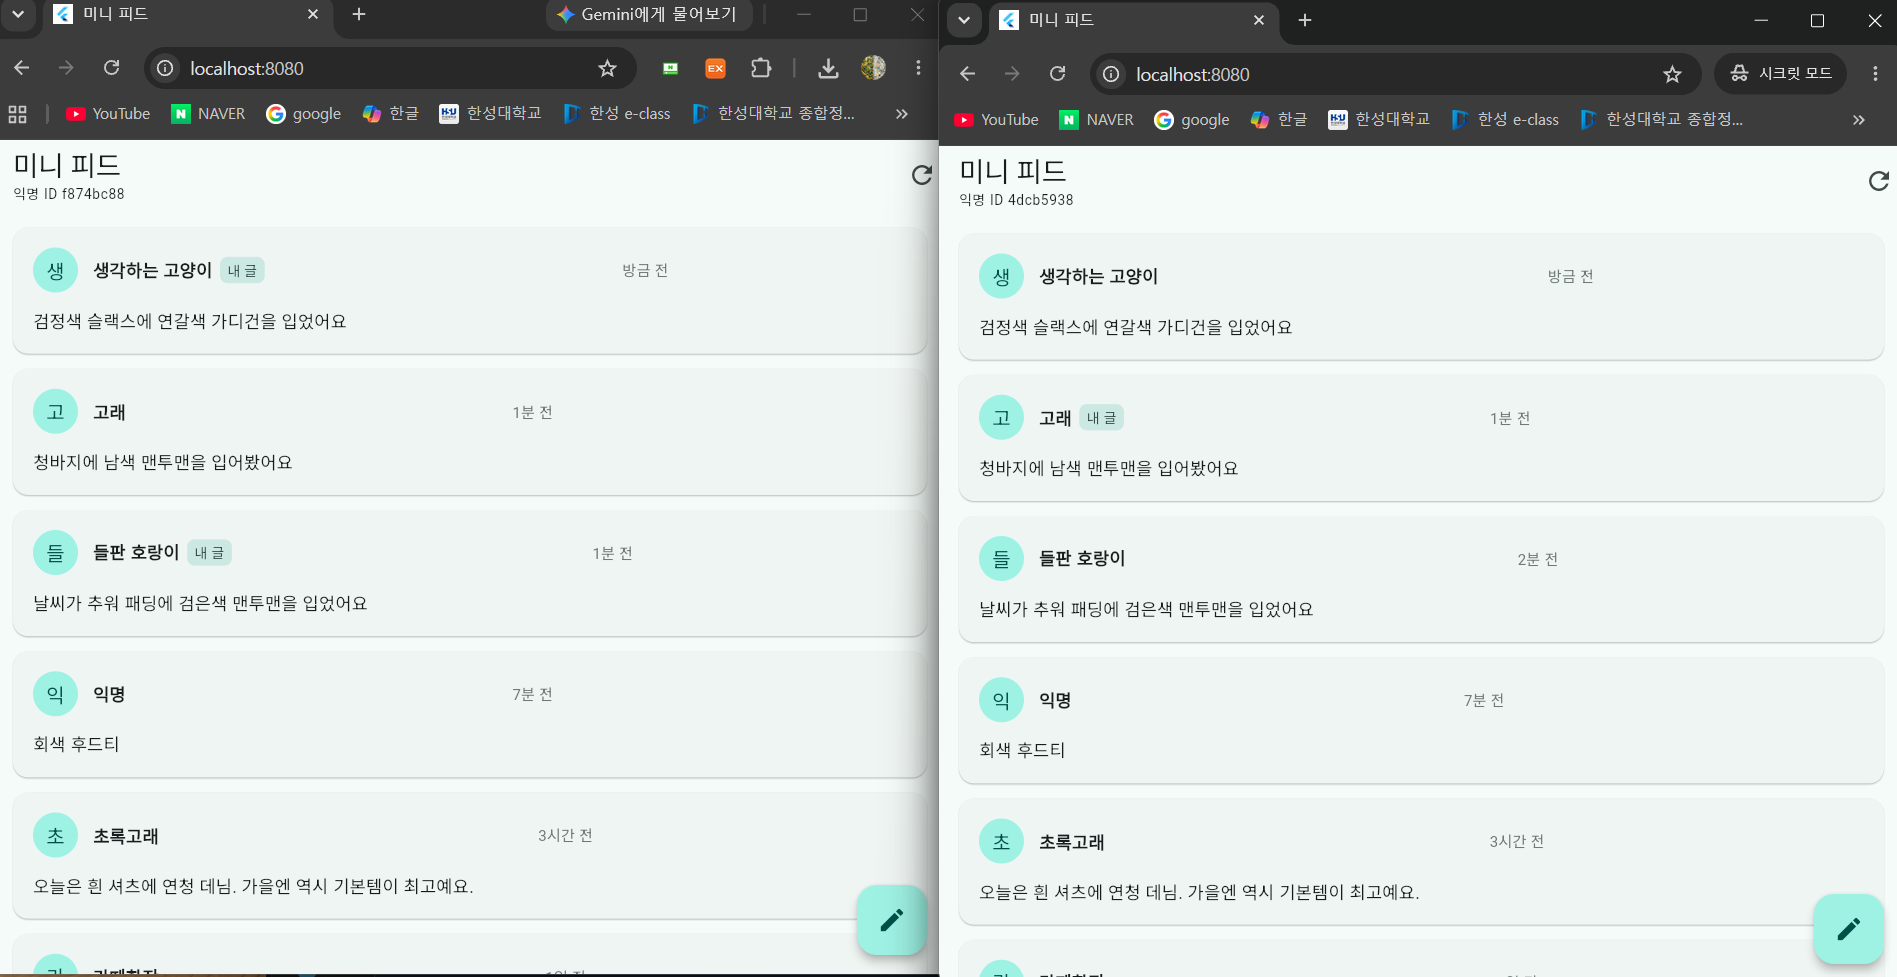
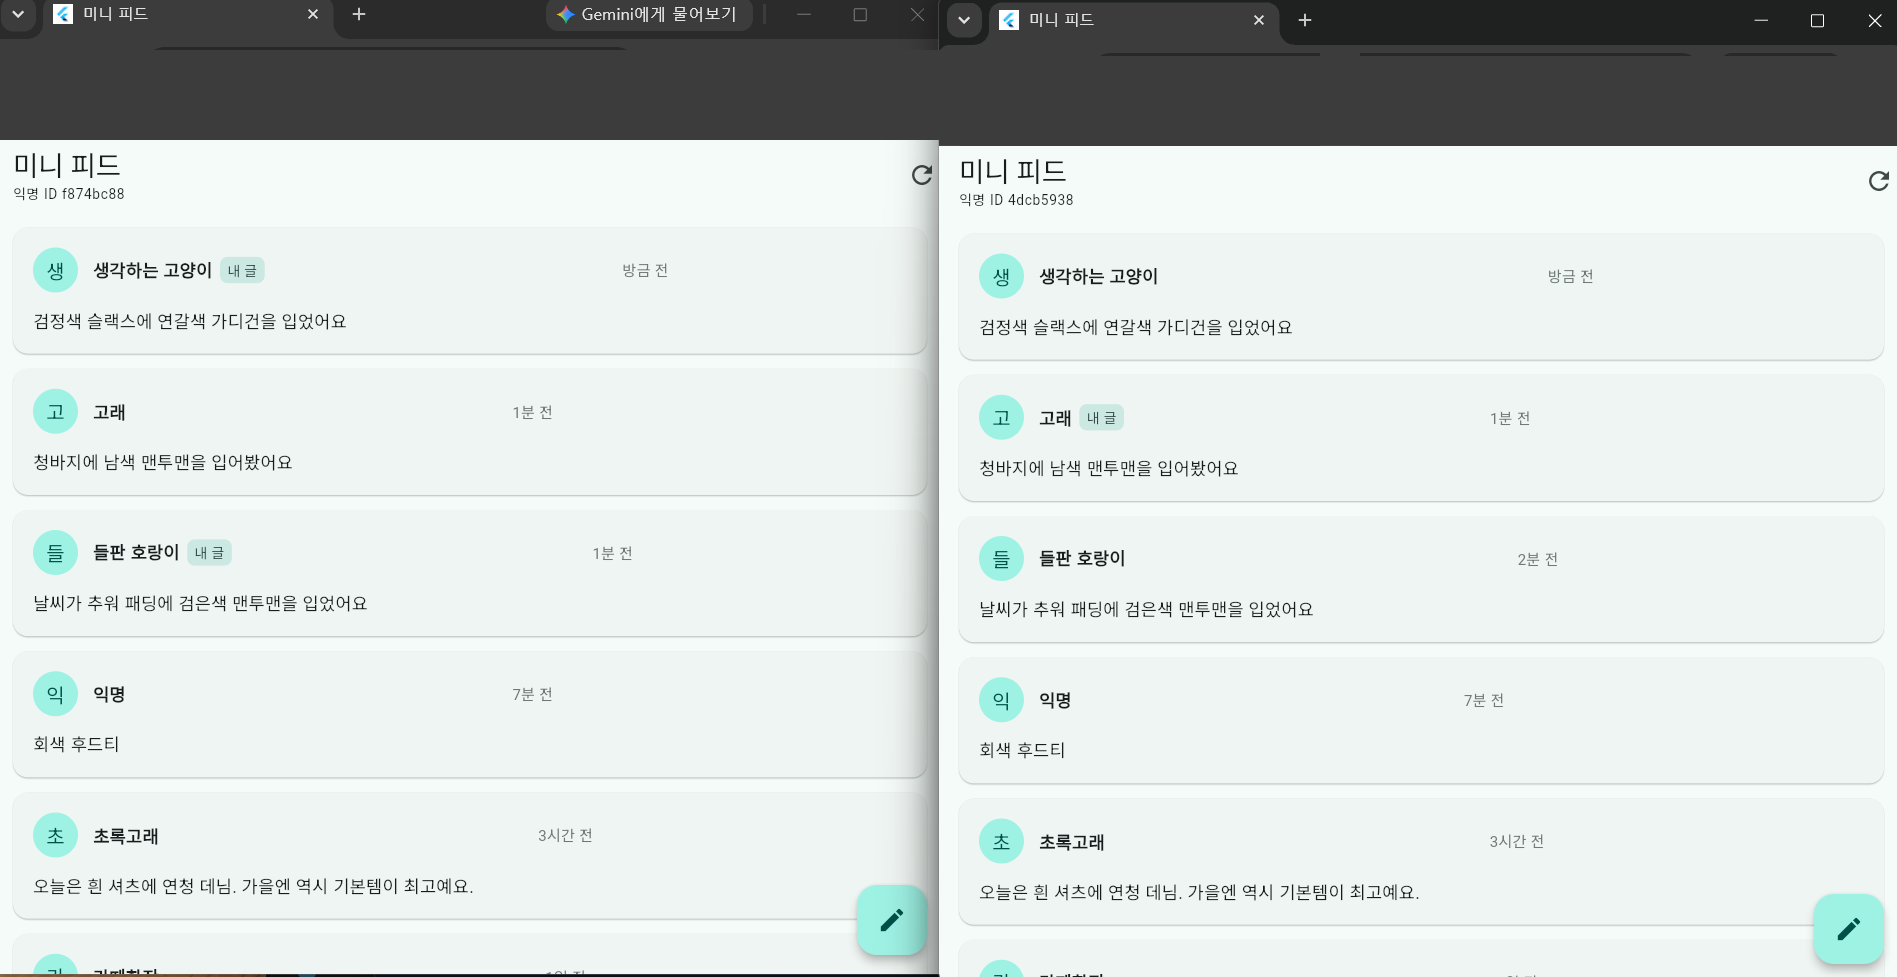
MP1~MP3 README·스크린샷·prompts_log 업데이트
Claude-Session: https://claude.ai/code/session_01ATWVuzUuSCSuzQZu1abdbc

diff --git a/mp2/README.md b/mp2/README.md
@@ -3,7 +3,7 @@
 MP1의 미니 피드 앱에 **Supabase**를 연결해, 기기 A에서 쓴 글이 서버에 저장되고 기기 B에서 새로고침하면 그 글이 보이도록 만들었습니다.
 사용자는 **익명 인증**으로만 구분하며, 이메일·전화번호 등 개인정보는 받지 않습니다.
 
-## 1. 선택한 BaaS와 이유 — Supabase
+## 선택한 BaaS와 이유 — Supabase
 
 | 비교 | Firebase (Firestore) | Supabase | 선택 이유 |
 |---|---|---|---|
@@ -12,7 +12,7 @@ MP1의 미니 피드 앱에 **Supabase**를 연결해, 기기 A에서 쓴 글이
 | 익명 인증 | 지원 | 지원 | 둘 다 가능 |
 | 팀 프로젝트 | — | OOTD 피드 앱 백엔드로 이미 사용 중 | 같은 프로젝트에서 이어서 확장 가능 |
 
-## 2. 익명 인증 방식
+## 익명 인증 방식
 
 1. 앱이 켜지면 `auth.signInAnonymously()` 로 **익명 로그인**합니다. 회원가입·이메일·전화번호 입력이 없습니다.
 2. Supabase가 기기마다 다른 **익명 사용자 ID(uuid)** 를 발급하고, 세션은 기기에 저장되어 앱을 다시 켜도 같은 ID가 유지됩니다.
@@ -20,7 +20,7 @@ MP1의 미니 피드 앱에 **Supabase**를 연결해, 기기 A에서 쓴 글이
 4. RLS 정책으로 **로그인한 사용자만 읽기**, **본인 ID로만 쓰기**가 가능합니다. 수정·삭제 정책은 없으므로 앱에서 수정·삭제할 수 없습니다.
 5. 피드 상단에 `익명 ID 1a2b3c4d` (앞 8자리)를 표시해, 두 기기가 서로 다른 사용자임을 스크린샷에서 확인할 수 있습니다. 내가 쓴 글에는 `내 글` 표시가 붙습니다.
 
-## 3. 백엔드 설정 절차 (Supabase)
+## 백엔드 설정 절차 (Supabase)
 
 1. [supabase.com](https://supabase.com) 로그인 → **New project** 생성 (이미 있는 프로젝트를 써도 됩니다)
 2. **익명 로그인 켜기**: Authentication → Sign In / Providers → **Allow anonymous sign-ins** 켜기 → Save
@@ -53,46 +53,77 @@ MP1의 미니 피드 앱에 **Supabase**를 연결해, 기기 A에서 쓴 글이
 | `content` | varchar(200) | 내용 1~200자 (공백만 있는 글은 DB가 거부) |
 | `created_at` | timestamptz | 작성 시각 (서버 시간) |
 
-## 4. 실행 절차
+## 실행 절차
+
+- 프레임워크/SDK: **Flutter 3.47.5 (stable) / Dart 3.13.4**
+- 패키지: `supabase_flutter`, `flutter_dotenv` (버전은 `app/pubspec.lock` 에 고정)
+- 실행 기기: **Chrome 웹 브라우저 2개 창** (Windows PC). 기기 A = 일반 창, 기기 B = 시크릿 창 → 서로 다른 익명 사용자. Android 에뮬레이터 2대로도 실행 가능
+- 잠금 파일 포함: `app/pubspec.lock`, `app/android/gradle/wrapper/gradle-wrapper.properties`
+- 먼저 위 "백엔드 설정 절차"로 SQL 실행과 `app/.env` 만들기를 합니다.
 
 ```bash
-# 0) 위 3번의 백엔드 설정과 app/.env 만들기를 먼저 합니다
 cd app
 flutter pub get
-flutter run -d chrome        # 또는 에뮬레이터: flutter run -d emulator-5554
-flutter test                 # 선택: 가짜 서버로 화면 동작 테스트
+flutter run -d web-server --web-port 8080
+# 기기 A: Chrome 일반 창에서 http://localhost:8080
+# 기기 B: Chrome 시크릿 창에서 http://localhost:8080
 ```
 
-### 두 기기 동기화 확인 방법
+테스트 (선택, 가짜 서버 사용 — 네트워크 불필요)
 
-| 방법 | 기기 A | 기기 B |
-|---|---|---|
-| 에뮬레이터 2개 | `flutter run -d emulator-5554` | `flutter run -d emulator-5556` |
-| PC 하나로 | `flutter run -d chrome` 로 열린 창 | 같은 주소를 **시크릿 창**(또는 Edge)에서 열기 → 다른 익명 ID |
+```bash
+flutter test
+```
 
-1. 기기 A에서 ✎ → 글 작성 → [게시] → A 피드 맨 위에 `내 글` 로 표시
-2. 기기 B에서 피드를 **아래로 당기거나** 오른쪽 위 ↻ 버튼 → A의 글이 나타남
-3. Supabase → Table Editor → `mini_posts` 에서 같은 글이 저장된 것을 확인
+## 확인 방법
 
-### 작성 실패(네트워크 오류) 처리
+### 두 기기 동기화
+
+- 조작: 기기 A에서 ✎ → 닉네임·내용 입력 → [게시]한 뒤, 기기 B에서 피드를 아래로 당기거나 ↻ 버튼을 누른다
+- 기대 결과: 기기 A 피드 맨 위에 새 글이 `내 글` 표시와 함께 추가되고, 기기 B에서 새로고침하면 같은 글이 맨 위에 보인다. 두 기기 피드 위의 익명 ID가 서로 다르다. Supabase Table Editor의 `mini_posts` 에도 같은 글이 저장된다
+- 스크린샷: 01_deviceA_compose.png, 02_deviceB_synced.png, 03_supabase_data.png
+
+### 익명 인증·개인정보 수집 없음
+
+- 조작: 앱을 실행하고 피드 위의 익명 ID를 확인한다. `app/lib/services/post_repository.dart` 의 `signIn()` 을 확인한다
+- 기대 결과: 회원가입·이메일·전화번호 입력 없이 `signInAnonymously()` 로 자동 로그인되고, 테이블에는 익명 ID(uuid)·닉네임·내용·시각만 저장된다
+- 스크린샷: 02_deviceB_synced.png, 03_supabase_data.png
+
+### 작성 실패 안내
+
+- 조작: Chrome 개발자 도구(F12) → Network → Offline 으로 바꾼 뒤 글을 게시하거나 새로고침한다
+- 기대 결과: 앱이 꺼지지(크래시) 않고 "인터넷 연결을 확인해 주세요" 안내와 [다시 시도]가 표시되며, 입력한 글은 지워지지 않는다
+- 스크린샷: 04_post_error.png
+
+### 설정 키 분리
+
+- 조작: 제출물에서 `.env.example` 과 `app/lib/main.dart` 를 확인한다
+- 기대 결과: URL·키가 소스에 하드코딩되어 있지 않고 `.env` 에서 읽는다. 제출물에는 플레이스홀더만 있는 `.env.example` 만 있고 실제 키가 든 `.env` 는 없다
+- 스크린샷: (없음 — 파일로 확인)
+
+시험 데이터: app/supabase/mini_posts.sql (실행하면 예시 글 3개가 들어감) + 확인 중 직접 작성한 글
+
+네트워크: 온라인 필요 (작성 실패 안내는 개발자 도구의 Offline 모드로 확인)
+
+**참고 — 실패 상황별 앱 동작**
 
 | 상황 | 앱 동작 |
 |---|---|
 | 처음 불러오기 실패 | 오류 안내 + **[다시 시도]** 버튼 |
 | 새로고침 실패 | 지금 보이던 목록은 그대로 두고 하단에 안내 |
-| 글 게시 실패 | "게시하지 못했어요. 인터넷 연결을 확인해 주세요." + **[다시 시도]**, 입력한 글은 지워지지 않음 |
+| 글 게시 실패 | "게시하지 못했어요. 인터넷 연결을 확인해 주세요." + **[다시 시도]**, 입력한 글 유지 |
 | 응답이 10초 넘게 없음 | 시간 초과로 처리하고 같은 안내 |
 | 게시 중 | 버튼 대신 로딩 표시 → 중복 게시 방지 |
 
-확인 방법: Chrome 개발자 도구(F12) → Network → **Offline** 으로 바꾼 뒤 게시해 봅니다.
-
-## 5. 평가 기준 확인
+## 평가 기준 확인
 
 - [x] 두 기기 간 게시글 동기화가 스크린샷으로 확인된다. → `screenshots/`
 - [x] 익명 인증만 사용하며 이메일·전화번호 등 개인정보 수집 코드가 없다.
-- [x] 설정 키가 `.env` 로 분리되어 있고(`.env.example` 만 제출), 작성 실패 안내가 처리되어 있다.
+- [x] 작성 실패 시 크래시 없이 안내한다.
+- [x] 설정 키 하드코딩 없이 `.env` 로 분리했고, `.env.example` 만 제출한다.
+- [x] README에 BaaS 선택·익명 인증·백엔드 설정·확인 방법·실행 절차 절이 있다.
 
-## 6. MP1에서 바뀐 점
+## MP1에서 바뀐 점
 
 | 파일 | 변경 |
 |---|---|

diff --git a/mp1/README.md b/mp1/README.md
@@ -29,9 +29,9 @@
 | `content` | String | 더미 문장 |
 | `createdAt` | DateTime | 작성 시각. 코드로 생성 (지금 − N분) |
 
-- 더미 데이터는 `lib/data/dummy_posts.dart` 에서 만듭니다.
+- **데이터 파일 위치: `app/lib/data/dummy_posts.dart`** (`createDummyPosts()` 함수가 10개를 만듭니다)
 - 작성 시각을 3분 전 ~ 4일 전으로 나눠 두어, 상대 시간 표시(분·시간·일)를 모두 확인할 수 있습니다.
-- 실명, 연락처, 학번, 실제 사진 등 **실제 개인정보는 넣지 않았습니다.** 프로필 사진 대신 닉네임 첫 글자 아이콘을 씁니다.
+- 실명, 연락처, 학번, 실제 인물 사진 등 **실제 개인정보와 민감정보는 넣지 않았습니다.** 프로필 사진 대신 닉네임 첫 글자 아이콘을 씁니다. 스크린샷에도 실제 개인정보가 없습니다.
 
 ## 상대 시간 표시
 
@@ -49,31 +49,52 @@
 
 ## 실행 절차
 
-1. Flutter 환경 확인
-   ```bash
-   flutter doctor
-   ```
-2. 의존성 받기 (외부 패키지 없이 Flutter 기본 위젯만 사용)
-   ```bash
-   cd app
-   flutter pub get
-   ```
-3. 실행 (에뮬레이터·실기기·Chrome 중 선택)
-   ```bash
-   flutter run
-   ```
-4. 테스트 (선택)
-   ```bash
-   flutter test
-   ```
-   상대 시간, 더미 데이터 10개, 피드 표시, 글쓰기 → 맨 위 추가, 빈 내용 [게시] 비활성, 상세 이동을 확인합니다.
+- 프레임워크/SDK: **Flutter 3.47.5 (stable) / Dart 3.13.4**
+- 실행 기기: **Chrome 웹 브라우저** (Windows PC, `flutter run -d chrome`). Android 에뮬레이터에서도 실행 가능
+- 외부 패키지 없음 (Flutter 기본 위젯만 사용), 서버·네트워크 불필요
+- 잠금 파일 포함: `app/pubspec.lock`, `app/android/gradle/wrapper/gradle-wrapper.properties`
 
-## 통과 기준 확인
+```bash
+cd app
+flutter pub get
+flutter run -d chrome
+```
 
-- [x] 피드·글쓰기·상세 화면과 화면 간 이동이 동작한다.
-- [x] 새 글이 피드 최상단에 추가된다.
-- [x] 작성 시각이 상대 시간으로 표시된다.
-- [x] 더미 데이터에 실제 개인정보가 없고, 민감 정보(API 키 등)가 제출물에 없다.
+테스트 (선택)
+
+```bash
+flutter test
+```
+
+## 확인 방법
+
+### 게시글 카드·스크롤
+
+- 조작: 앱을 실행하고 게시글 목록을 아래로 스크롤한다
+- 기대 결과: 닉네임·작성 시각·내용이 담긴 게시글 카드가 목록에 표시되고, 스크롤하면 다음 카드가 보인다
+- 스크린샷: 01_feed.png
+
+### 새 글 최상단 반영·상세 이동
+
+- 조작: 오른쪽 아래 ✎ 버튼 → 글쓰기 화면에서 내용을 입력하고 [게시]한 뒤, 피드에서 그 카드를 누른다
+- 기대 결과: 방금 쓴 글이 피드 맨 위에 '방금 전'으로 추가되고, 카드를 누르면 상세 화면에 전체 내용과 작성 시각이 열린다. 내용이 비어 있으면 [게시] 버튼이 비활성화된다
+- 스크린샷: 02_compose.png, 01_feed.png, 03_detail.png
+
+### 상대 시간 표시
+
+- 조작: 피드의 각 카드 오른쪽 위 시각과 상세 화면의 시각을 확인한다
+- 기대 결과: 작성 시각이 '방금 전 / N분 전 / N시간 전 / N일 전'으로 표시되고, 상세 화면에는 '3분 전 · 2026.11.04 15:26'처럼 정확한 시각도 함께 표시된다
+- 스크린샷: 01_feed.png, 03_detail.png
+
+### 더미 데이터 개인정보 없음
+
+- 조작: `app/lib/data/dummy_posts.dart` 와 피드 화면의 닉네임·내용을 확인한다
+- 기대 결과: 가짜 닉네임(초록고래, 새벽코더 …)과 더미 문장만 있고 실명·연락처·실제 인물 사진이 없다
+- 스크린샷: 01_feed.png
+
+시험 데이터: app/lib/data/dummy_posts.dart (더미 게시글 10개, 작성 시각 3분 전 ~ 4일 전)
+
+네트워크: 불필요
 
 ## 폴더 구조
 
@@ -81,7 +102,7 @@
 app/lib/
   main.dart                 앱 시작, 테마
   models/post.dart          게시글 모델
-  data/dummy_posts.dart     더미 게시글 10개
+  data/dummy_posts.dart     더미 게시글 10개 (시험 데이터)
   utils/relative_time.dart  상대 시간 변환
   widgets/post_card.dart    피드 카드
   screens/                  feed / compose / detail 화면

diff --git a/mp1/prompts_log.md b/mp1/prompts_log.md
@@ -50,14 +50,14 @@
 - 실제 입력: (4번 요청에 포함) 가이드의 기능 2 "글쓰기 → 피드 최상단에 추가"
 - AI 응답: Provider 같은 상태관리 패키지 없이, `Navigator.push`로 글쓰기 화면을 열고 `Navigator.pop`으로 돌려받은 Post를 `_posts.insert(0, post)`로 맨 앞에 넣는 방식. 내용이 비어 있으면 [게시] 버튼 비활성화, 닉네임을 비우면 '익명'
 - 판단: 채택. 데이터를 주고받는 화면이 두 개뿐이라 상태관리 패키지보다 이 방식이 단순하고 이해하기 쉬웠다.
-- 검증: 글을 쓰고 [게시]하면 '방금 전'으로 맨 위에 생기고, 내용이 비면 [게시]가 회색인 것을 확인했다. (screenshots/03_compose.png)
+- 검증: 글을 쓰고 [게시]하면 '방금 전'으로 맨 위에 생기고, 내용이 비면 [게시]가 회색인 것을 확인했다. (screenshots/02_compose.png)
 
 ## 7. 기능 3 — 게시글 탭 → 상세 화면
 
 - 실제 입력: (4번 요청에 포함) 가이드의 기능 3 "게시글 탭 → 상세 화면"
 - AI 응답: 카드의 `InkWell.onTap`에서 `Navigator.push(DetailScreen(post: p))`로 이동. 상세 화면에서는 내용을 자르지 않고 전부 보여 줌
 - 판단: 채택. 피드에서는 내용이 3줄까지만 보이고, 상세에서 전체를 보도록 역할을 나눴다. 상대 시간 옆에 정확한 작성 시각(2026.11.04 15:26)도 같이 보이게 했다.
-- 검증: 카드를 누르면 상세 화면으로 가고, 뒤로가기로 피드에 돌아오는 것을 확인했다. (screenshots/02_detail.png)
+- 검증: 카드를 누르면 상세 화면으로 가고, 뒤로가기로 피드에 돌아오는 것을 확인했다. (screenshots/03_detail.png)
 
 ## 8. 기능 4 — 상대 시간 표시
 
